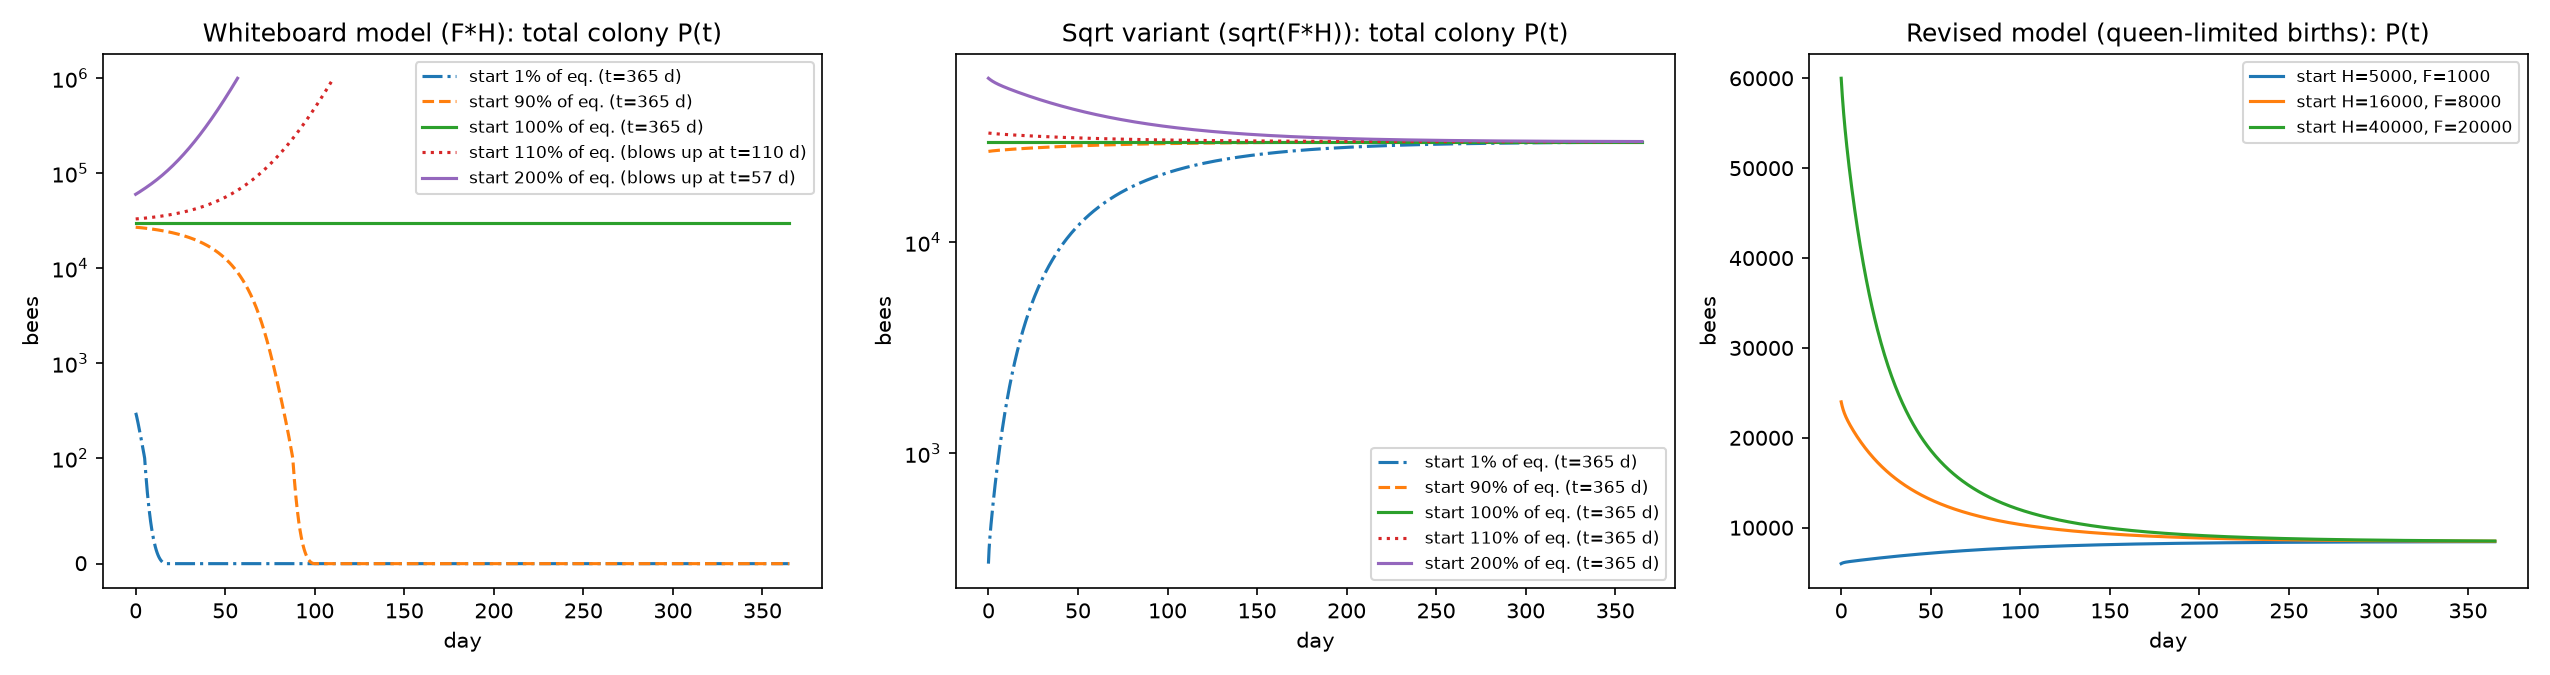
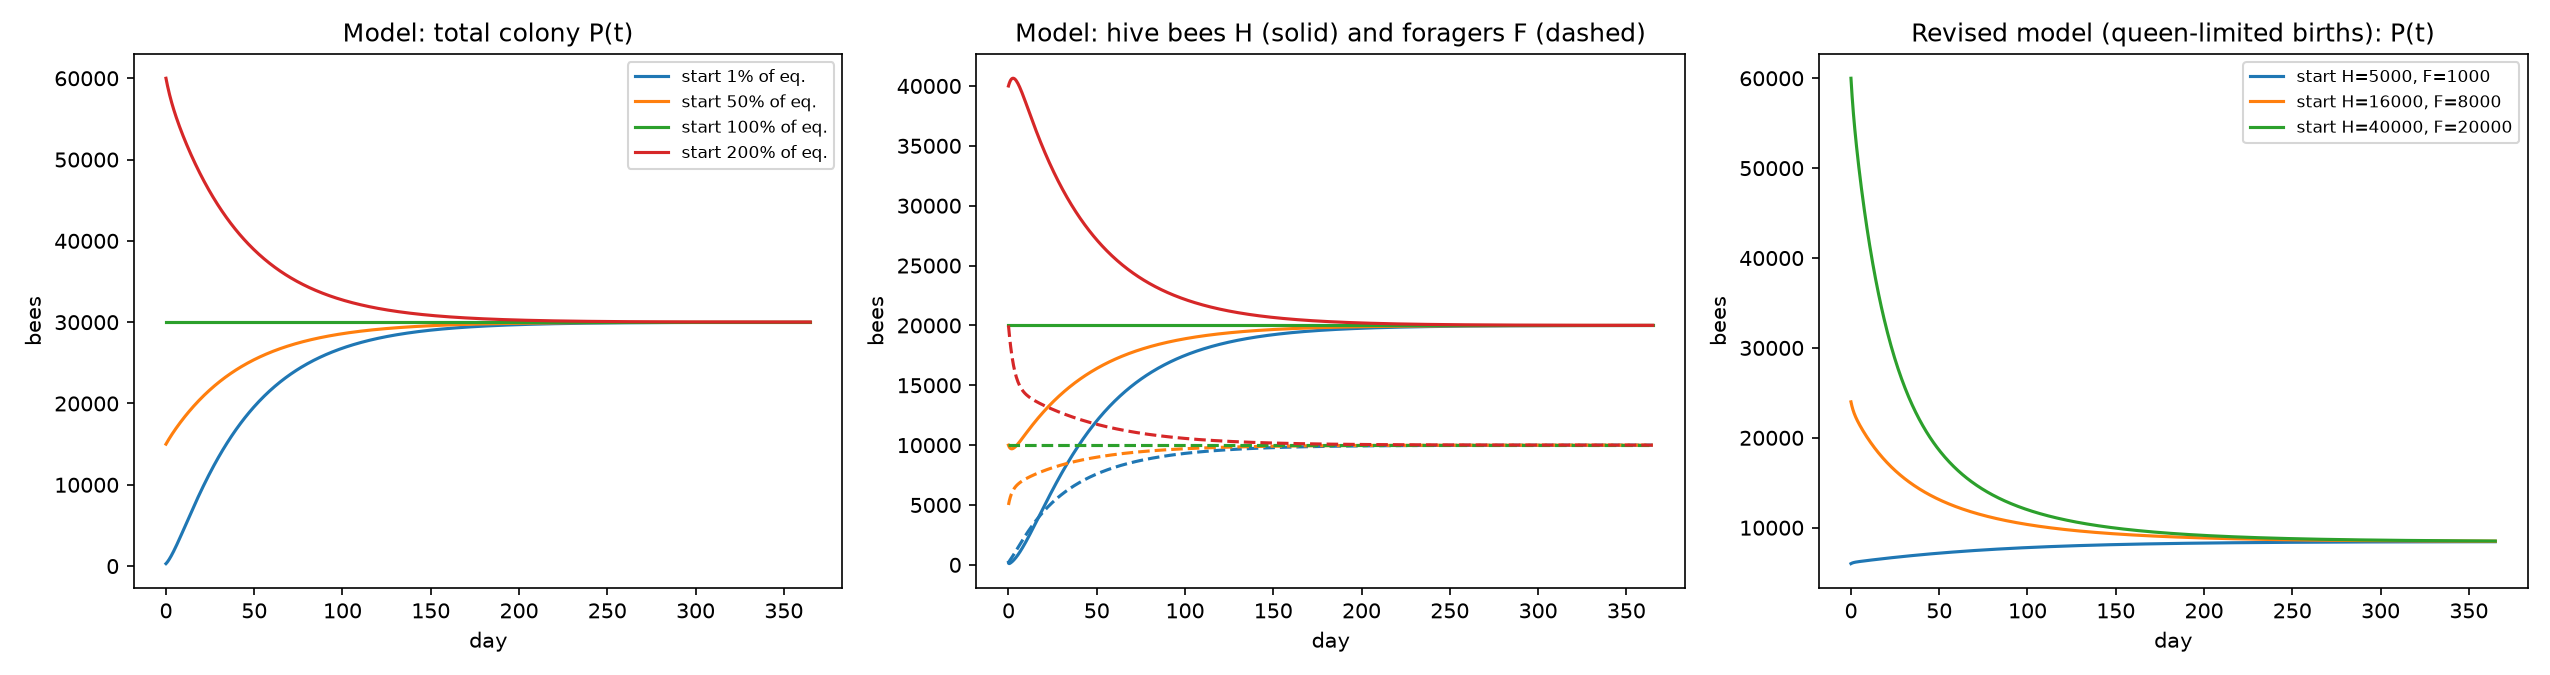
Switch to food-based births and distance-based forager deaths
Births = K1*sqrt(P_for): food income grows like sqrt(foragers) since the
foraging radius grows like sqrt(P_for). Forager distance deaths =
K3*P_for^(3/2). Equilibrium at 30k bees is stable from all tested starts.

diff --git a/bee_model.py b/bee_model.py
@@ -6,16 +6,20 @@ State variables (number of adult bees):
     F = P_for   : foragers
     P = H + F   : total colony
 
-Model as written on the whiteboard:
-    dH/dt = K1 * (F * H)**b / sqrt(F + H)  -  K2 * H / F  -  g1 * H   (b = 1 as written)
-    dF/dt = K2 * H / F  -  K3 * F**a  -  g2 * F          (a = 1/2 as written)
+Model:
+    dH/dt = K1 * sqrt(F)  -  K2 * H / F  -  g1 * H
+    dF/dt = K2 * H / F  -  K3 * F**(3/2)  -  g2 * F
     dP/dt = dH/dt + dF/dt
 
-Term meanings (our reading):
-    K1 * (F*H)**b/sqrt(F+H) : new adults emerging (needs foragers for food, hive bees for brood care)
-    K2 * H/F           : hive bees recruited to foraging (more recruitment when foragers are scarce)
-    K3 * F**a          : extra forager loss (e.g. lost while foraging / predation / pesticide)
-    g1, g2             : background per-capita death rates
+Term meanings:
+    K1 * sqrt(F)   : births, proportional to food income. Foragers need a foraging area
+                     proportional to F, so the radius (and trip length) grows like sqrt(F);
+                     each forager brings in food at a rate ~ 1/sqrt(F), so total food
+                     ~ F / sqrt(F) = sqrt(F). Each new bee costs a fixed amount of food.
+    K2 * H / F     : hive bees recruited to foraging (more recruitment when foragers are scarce)
+    K3 * F**(3/2)  : foraging-distance deaths. Each forager's risk grows with trip length
+                     ~ sqrt(F), so total deaths ~ F * sqrt(F).
+    g1, g2         : background per-capita death rates
 
 Also included: a "revised" model with a queen-limited birth rate and
 social-inhibition recruitment (Khoury, Myerscough & Barron 2011, PLoS ONE 6(4):e18491)
@@ -34,32 +38,30 @@ EPS = 1e-9  # keeps H/F and sqrt finite when a compartment hits zero
 
 
 # --------------------------------------------------------------------------
-# Whiteboard model
+# Main model
 # --------------------------------------------------------------------------
 @dataclass
 class Params:
-    K1: float = 1.559e-3   # birth coefficient            [bees^(-1/2) / day]
-    K2: float = 800.0      # recruitment coefficient      [bees / day]
-    K3: float = 1.0        # extra forager loss coeff.    [bees^(1-a) / day]
-    a: float = 0.5         # exponent on F in the K3 term (whiteboard: 1/2)
-    b: float = 1.0         # exponent on F*H in births (whiteboard: 1; sqrt variant: 1/2)
-    g1: float = 0.01       # hive-bee death rate          [1/day]
-    g2: float = 0.15       # forager death rate           [1/day]
+    K1: float = 18.0       # births per sqrt(forager)      [bees^(1/2) / day]
+    K2: float = 800.0      # recruitment coefficient       [bees / day]
+    K3: float = 1e-4       # distance-death coefficient    [bees^(-1/2) / day]
+    g1: float = 0.01       # hive-bee death rate           [1/day]
+    g2: float = 0.15       # forager death rate            [1/day]
 
 
-def calibrate(H_star, F_star, g1=0.01, g2=0.15, K3=1.0, a=0.5, b=1.0):
-    """Pick K1, K2 so that (H_star, F_star) is an equilibrium of the whiteboard model."""
-    K2 = F_star / H_star * (K3 * F_star**a + g2 * F_star)
-    K1 = (K2 * H_star / F_star + g1 * H_star) * np.sqrt(H_star + F_star) / (F_star * H_star)**b
-    return Params(K1=K1, K2=K2, K3=K3, a=a, b=b, g1=g1, g2=g2)
+def calibrate(H_star, F_star, g1=0.01, g2=0.15, K3=1e-4):
+    """Pick K1, K2 so that (H_star, F_star) is an equilibrium of the model."""
+    K2 = F_star / H_star * (K3 * F_star**1.5 + g2 * F_star)
+    K1 = (K2 * H_star / F_star + g1 * H_star) / np.sqrt(F_star)
+    return Params(K1=K1, K2=K2, K3=K3, g1=g1, g2=g2)
 
 
 def rhs(t, y, p: Params):
     H, F = np.maximum(y, 0.0)
-    births = p.K1 * (F * H)**p.b / np.sqrt(F + H + EPS)
+    births = p.K1 * np.sqrt(F)
     recruit = p.K2 * H / (F + EPS)
     dH = births - recruit - p.g1 * H
-    dF = recruit - p.K3 * F**p.a - p.g2 * F
+    dF = recruit - p.K3 * F**1.5 - p.g2 * F
     return [dH, dF]
 
 
@@ -113,26 +115,28 @@ def simulate(f, y0, params, t_end=365.0):
 def main():
     # Calibrate so a 30,000-bee colony (20k hive / 10k foragers) is an equilibrium.
     H_star, F_star = 20000.0, 10000.0
+    p = calibrate(H_star, F_star)
+    print("Model parameters:", p)
+
+    eig = np.linalg.eigvals(jacobian(H_star, F_star, p))
+    print(f"Equilibrium (H, F) = ({H_star:.0f}, {F_star:.0f}); Jacobian eigenvalues = {eig}")
+    print("  -> stable" if np.all(eig.real < 0) else "  -> UNSTABLE (saddle/source)")
+
     fig, axes = plt.subplots(1, 3, figsize=(17, 4.5))
 
-    variants = [(1.0, "Whiteboard model (F*H)"), (0.5, "Sqrt variant (sqrt(F*H))")]
-    for ax, (b, name) in zip(axes, variants):
-        p = calibrate(H_star, F_star, b=b)
-        print(f"{name} parameters:", p)
-
-        eig = np.linalg.eigvals(jacobian(H_star, F_star, p))
-        print(f"Equilibrium (H, F) = ({H_star:.0f}, {F_star:.0f}); Jacobian eigenvalues = {eig}")
-        print("  -> stable" if np.all(eig.real < 0) else "  -> UNSTABLE (saddle/source)")
-
-        for scale, ls in [(0.01, "-."), (0.9, "--"), (1.0, "-"), (1.1, ":"), (2.0, "-")]:
-            sol = simulate(rhs, [scale * H_star, scale * F_star], p)
-            H, F = sol.y
-            end = f"blows up at t={sol.t[-1]:.0f} d" if sol.status == 1 else f"t={sol.t[-1]:.0f} d"
-            print(f"  start at {scale:.0%} of equilibrium: final N = {max(H[-1] + F[-1], 0):,.0f} ({end})")
-            ax.plot(sol.t, H + F, ls, label=f"start {scale:.0%} of eq. ({end})")
-        ax.set_title(f"{name}: total colony P(t)")
-        ax.set_xlabel("day"); ax.set_ylabel("bees"); ax.set_yscale("symlog", linthresh=100)
-        ax.legend(fontsize=8)
+    for scale in [0.01, 0.5, 1.0, 2.0]:
+        sol = simulate(rhs, [scale * H_star, scale * F_star], p)
+        H, F = sol.y
+        end = f"blows up at t={sol.t[-1]:.0f} d" if sol.status == 1 else f"t={sol.t[-1]:.0f} d"
+        print(f"  start at {scale:.0%} of equilibrium: final H = {max(H[-1], 0):,.0f}, "
+              f"F = {max(F[-1], 0):,.0f} ({end})")
+        line, = axes[0].plot(sol.t, H + F, label=f"start {scale:.0%} of eq.")
+        axes[1].plot(sol.t, H, color=line.get_color())
+        axes[1].plot(sol.t, F, "--", color=line.get_color())
+    axes[0].set_title("Model: total colony P(t)")
+    axes[0].set_xlabel("day"); axes[0].set_ylabel("bees"); axes[0].legend(fontsize=8)
+    axes[1].set_title("Model: hive bees H (solid) and foragers F (dashed)")
+    axes[1].set_xlabel("day"); axes[1].set_ylabel("bees")
 
     ax = axes[2]
     rp = RevisedParams()
@@ -145,6 +149,7 @@ def main():
     fig.tight_layout()
     fig.savefig("bee_model.png", dpi=150)
     print("Saved bee_model.png")
+
 
 if __name__ == "__main__":
     main()
